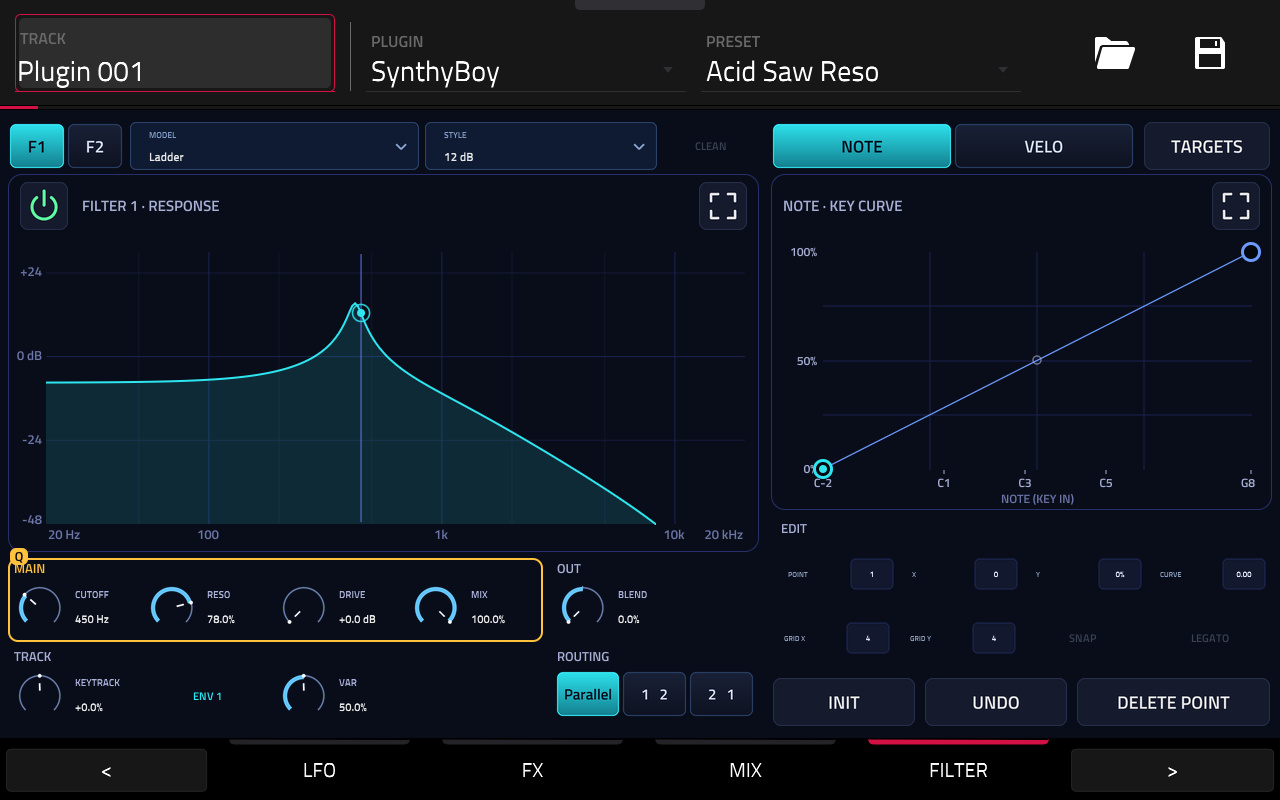
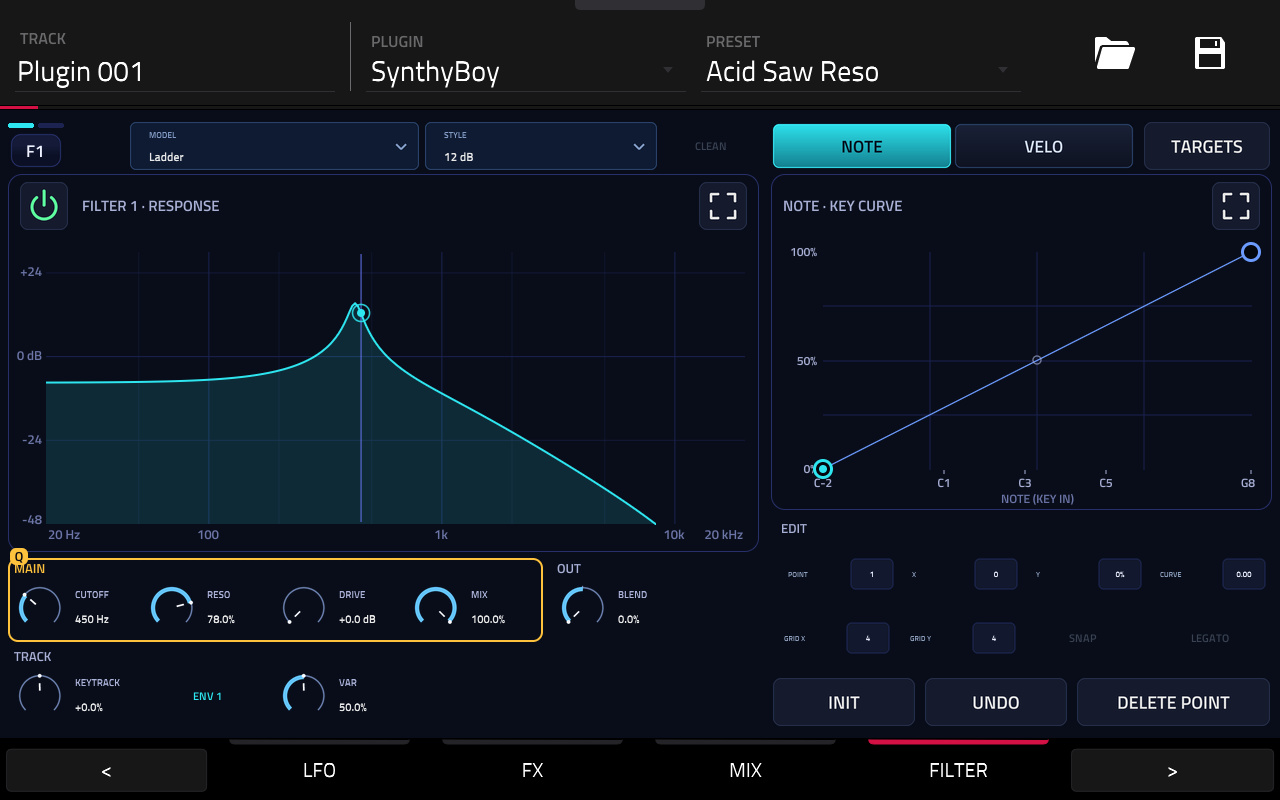
Record the Key 61 filter chain and exercise its selector in device cases

Changed region(s): [[0.4375, 0.8125, 0.5938, 0.9062], [0.0, 0.1562, 0.0938, 0.2188]]

diff --git a/docs/ui-components/native-katalogus.html b/docs/ui-components/native-katalogus.html
@@ -16,7 +16,7 @@
 <section id="rnd"><h2>RND</h2><p>Fejlesztési előnézet · offline render, nem hardveres felvétel</p><div class="pair"><figure><a href="../screens/rnd.jpg?v=b52bc095e2c8"><img src="../screens/rnd.jpg?v=b52bc095e2c8" alt="RND · aktuális előnézet"></a><figcaption>RND · aktuális előnézet</figcaption></figure></div></section>
 <section id="fx"><h2>FX</h2><p>MPC Key 61 hardverfelvétel · 027c5fa8</p><div class="pair"><figure><a href="../screens/fx.jpg?v=7d673bad98ed"><img src="../screens/fx.jpg?v=7d673bad98ed" alt="FX · aktuális előnézet"></a><figcaption>FX · aktuális előnézet</figcaption></figure></div></section>
 <section id="mixer"><h2>Mixer</h2><p>MPC Key 61 hardverfelvétel · 027c5fa8</p><div class="pair"><figure><a href="../screens/mixer_old.jpg?v=cd315c9184ef"><img src="../screens/mixer_old.jpg?v=cd315c9184ef" alt="Mixer · rögzített régi referencia"></a><figcaption>Mixer · rögzített régi referencia</figcaption></figure><figure><a href="../screens/mixer.jpg?v=d37cbfd181ce"><img src="../screens/mixer.jpg?v=d37cbfd181ce" alt="Mixer · aktuális előnézet"></a><figcaption>Mixer · aktuális előnézet</figcaption></figure></div></section>
-<section id="filter"><h2>Filter</h2><p>MPC Key 61 hardverfelvétel · 027c5fa8</p><div class="pair"><figure><a href="../screens/filter_old.jpg?v=0f55a2bfbe5c"><img src="../screens/filter_old.jpg?v=0f55a2bfbe5c" alt="Filter · rögzített régi referencia"></a><figcaption>Filter · rögzített régi referencia</figcaption></figure><figure><a href="../screens/filter.jpg?v=a37e0f695474"><img src="../screens/filter.jpg?v=a37e0f695474" alt="Filter · aktuális előnézet"></a><figcaption>Filter · aktuális előnézet</figcaption></figure></div></section>
+<section id="filter"><h2>Filter</h2><p>MPC Key 61 hardverfelvétel · Acid Saw Reso · TUI 0a1d33ede6dd</p><div class="pair"><figure><a href="../screens/filter_old.jpg?v=0f55a2bfbe5c"><img src="../screens/filter_old.jpg?v=0f55a2bfbe5c" alt="Filter · rögzített régi referencia"></a><figcaption>Filter · rögzített régi referencia</figcaption></figure><figure><a href="../screens/filter.jpg?v=addd92fbc293"><img src="../screens/filter.jpg?v=addd92fbc293" alt="Filter · aktuális előnézet"></a><figcaption>Filter · aktuális előnézet</figcaption></figure></div></section>
 <section id="mod"><h2>Mod</h2><p>MPC Key 61 hardverfelvétel · Acid Saw Reso · TUI a91db1cc1e53</p><div class="pair"><figure><a href="../screens/mod_old.jpg?v=0e79df023a0a"><img src="../screens/mod_old.jpg?v=0e79df023a0a" alt="Mod · rögzített régi referencia"></a><figcaption>Mod · rögzített régi referencia</figcaption></figure><figure><a href="../screens/mod.jpg?v=984f8ceca8aa"><img src="../screens/mod.jpg?v=984f8ceca8aa" alt="Mod · aktuális előnézet"></a><figcaption>Mod · aktuális előnézet</figcaption></figure></div></section>
 <section id="master"><h2>Master</h2><p>MPC Key 61 hardverfelvétel · 027c5fa8</p><div class="pair"><figure><a href="../screens/master_old.jpg?v=dac4721df195"><img src="../screens/master_old.jpg?v=dac4721df195" alt="Master · rögzített régi referencia"></a><figcaption>Master · rögzített régi referencia</figcaption></figure><figure><a href="../screens/master.jpg?v=ddca612ebf11"><img src="../screens/master.jpg?v=ddca612ebf11" alt="Master · aktuális előnézet"></a><figcaption>Master · aktuális előnézet</figcaption></figure></div></section>
 <section id="voice"><h2>Voice</h2><p>MPC Key 61 hardverfelvétel · 027c5fa8</p><div class="pair"><figure><a href="../screens/voice.jpg?v=65edc7e76871"><img src="../screens/voice.jpg?v=65edc7e76871" alt="Voice · aktuális előnézet"></a><figcaption>Voice · aktuális előnézet</figcaption></figure></div></section>
